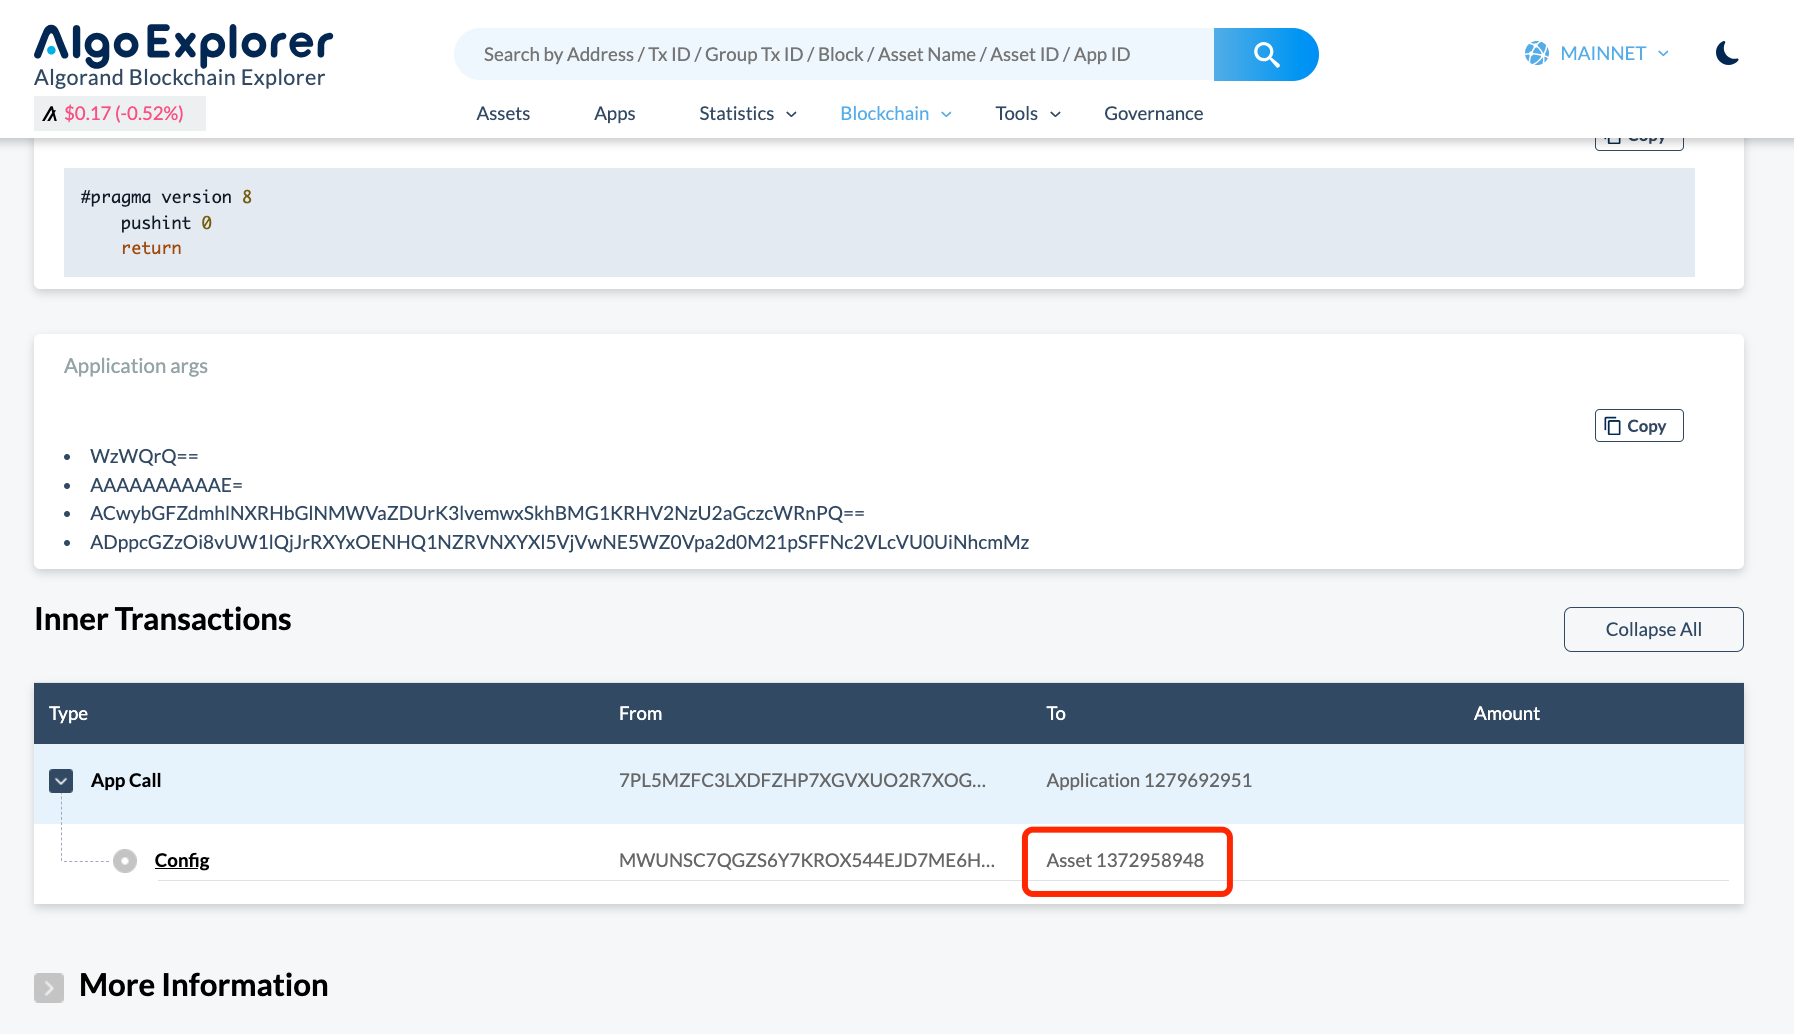
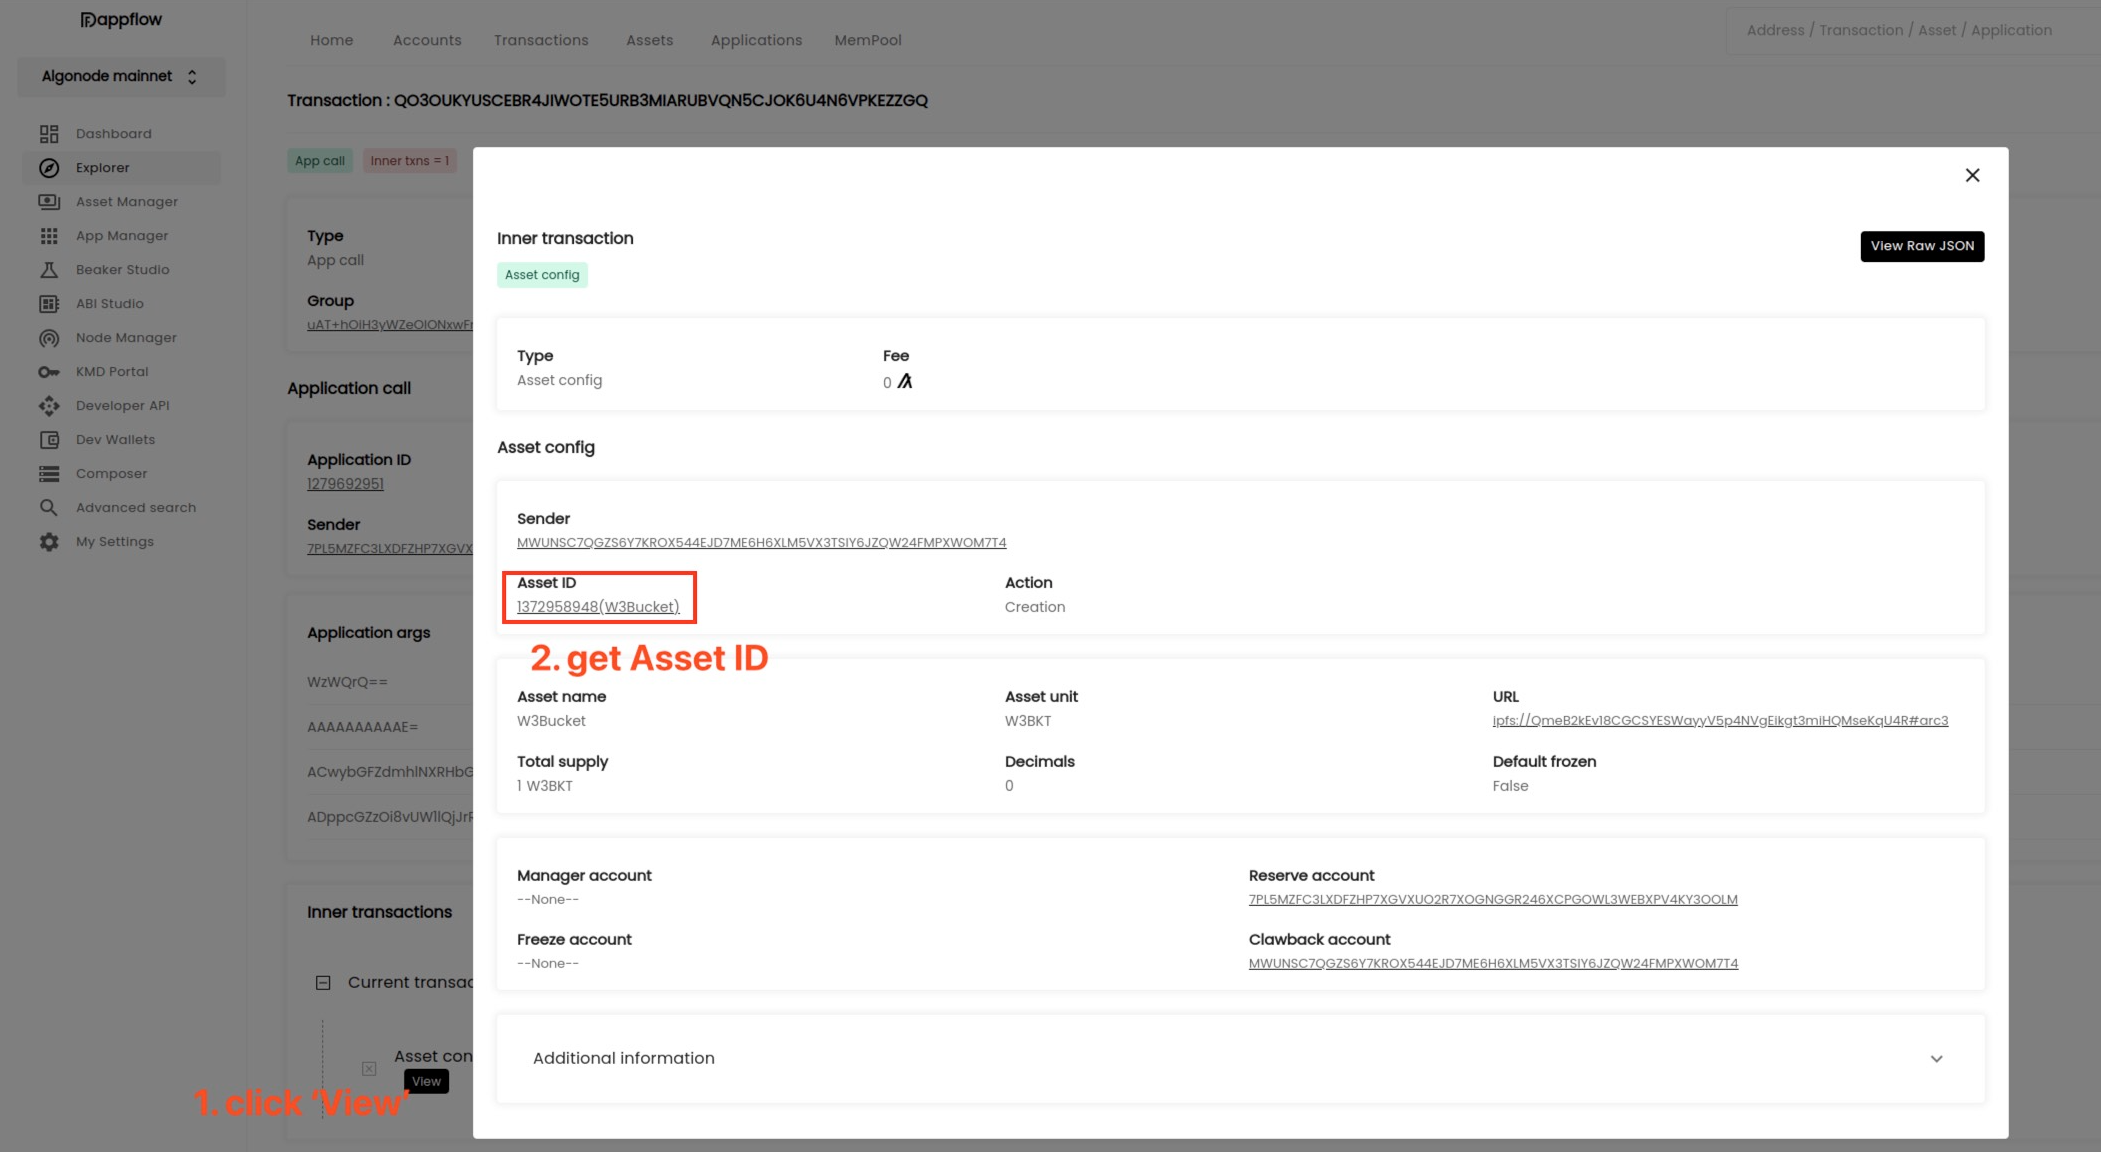
Update crust cloud qa algorand expolorer to dapp flow (#317)

diff --git a/website/translated_docs/zh-CN/Q&AForCrustApplications.md b/website/translated_docs/zh-CN/Q&AForCrustApplications.md
@@ -10,7 +10,7 @@ sidebar_label: Applications
 
 There are two signings needed for minting w3Bucket, one for payment, another for claiming the generated NFT asset. If user misses the second signing(sometimes error occurs because of network delay), the mint progress will fail. In this situation the bucket NFT has been generated, but have not been claimed by user. To get the bucket NFT, please follow the steps below.
 
-1. Find your mint transaction in [algorand explorer](https://algoexplorer.io/), for example:
+1. Find your mint transaction in [dapp flow apps](https://app.dappflow.org/explorer/home), for example:
 ![Pic](assets/qa/crustcloud-mint-1.png)
 
 2. In the mint transaction find the minted NFT asset id, in this example we can see the asset id is **1372958948**
@@ -19,7 +19,7 @@ There are two signings needed for minting w3Bucket, one for payment, another for
 3. Login [dapp flow apps](https://app.dappflow.org/explorer/home), then opt-in the asset id (If you have done this, skip to next step):
   - select 'Assset Manager' on the left sidebar
   - select 'Opted'
-  - click 'Opt-In asset'
+  - click 'Opt-In asset'v
   - select 'Asset Id' and input the asset id(in this example it's 1372958948) in the blank
 ![Pic](assets/qa/crustcloud-mint-3.png)
 

diff --git a/docs/Q&AForCrustApplications.md b/docs/Q&AForCrustApplications.md
@@ -10,7 +10,7 @@ sidebar_label: Applications
 
 There are two signings needed for minting w3Bucket, one for payment, another for claiming the generated NFT asset. If user misses the second signing(sometimes error occurs because of network delay), the mint progress will fail. In this situation the bucket NFT has been generated, but have not been claimed by user. To get the bucket NFT, please follow the steps below.
 
-1. Find your mint transaction in [algorand explorer](https://algoexplorer.io/), for example:
+1. Find your mint transaction in [dapp flow apps](https://app.dappflow.org/explorer/home), for example:
 ![Pic](assets/qa/crustcloud-mint-1.png)
 
 2. In the mint transaction find the minted NFT asset id, in this example we can see the asset id is **1372958948**
